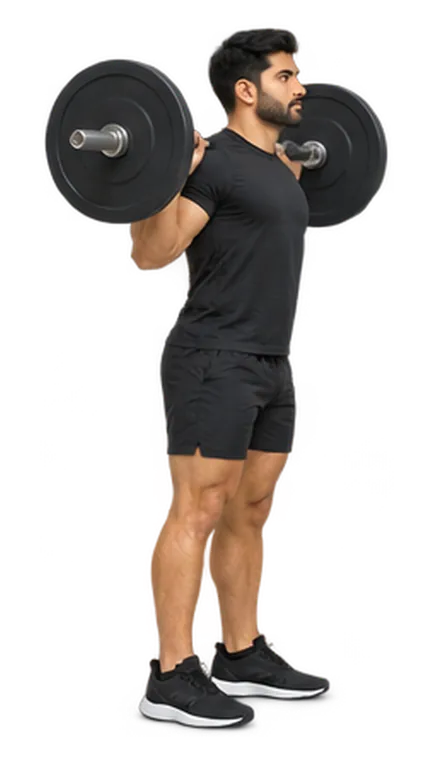
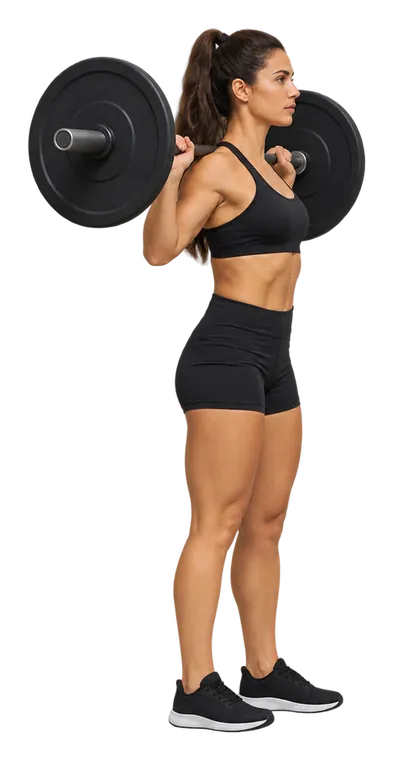
Release v0.4.2: consistent athlete for 5 more moves
New photos for back-squat, bench-press, ohp, calf-raise and superman.
Checked: 1200x1200 transparent, no logos, start/end aligned.

Claude-Session: https://claude.ai/code/session_01SgaN6zveFZcVCrrE6Hbc5f

Changed region(s): [[0.0611, 0.0303, 0.9466, 0.9684]]

diff --git a/index.html b/index.html
@@ -9,13 +9,13 @@
 <meta name="apple-mobile-web-app-title" content="LIME">
 <meta name="description" content="LIME — a minimalist workout tracker. Your data stays on your phone.">
 <title>LIME Workout</title>
-<link rel="manifest" href="manifest.webmanifest?v=0.4.1">
+<link rel="manifest" href="manifest.webmanifest?v=0.4.2">
 <link rel="icon" href="favicon.ico" sizes="any">
-<link rel="icon" href="icons/icon.svg?v=0.4.1" type="image/svg+xml">
-<link rel="apple-touch-icon" href="icons/apple-touch-icon.png?v=0.4.1">
+<link rel="icon" href="icons/icon.svg?v=0.4.2" type="image/svg+xml">
+<link rel="apple-touch-icon" href="icons/apple-touch-icon.png?v=0.4.2">
 <link rel="preload" href="fonts/oswald-var.woff2" as="font" type="font/woff2" crossorigin>
 <link rel="preload" href="fonts/inter-var.woff2" as="font" type="font/woff2" crossorigin>
-<link rel="stylesheet" href="css/app.css?v=0.4.1">
+<link rel="stylesheet" href="css/app.css?v=0.4.2">
 </head>
 <body>
   <!-- Splash: removed by app.js; a CSS fallback hides it after 4 s so it can never get stuck -->
@@ -36,27 +36,27 @@
   <div id="toast-root"></div>
 
   <!-- Load order matters: core → data → ui → features → app. Tested in tests/structure.test.mjs -->
-  <script src="js/core/version.js?v=0.4.1"></script>
-  <script src="js/core/util.js?v=0.4.1"></script>
-  <script src="js/core/store.js?v=0.4.1"></script>
-  <script src="js/core/timer.js?v=0.4.1"></script>
-  <script src="js/core/audio.js?v=0.4.1"></script>
-  <script src="js/data/exercises.js?v=0.4.1"></script>
-  <script src="js/data/art.js?v=0.4.1"></script>
-  <script src="js/data/figures.js?v=0.4.1"></script>
-  <script src="js/data/planner.js?v=0.4.1"></script>
-  <script src="js/ui/icons.js?v=0.4.1"></script>
-  <script src="js/ui/toast.js?v=0.4.1"></script>
-  <script src="js/ui/sheet.js?v=0.4.1"></script>
-  <script src="js/ui/charts.js?v=0.4.1"></script>
-  <script src="js/ui/body3d.js?v=0.4.1"></script>
-  <script src="js/features/stats.js?v=0.4.1"></script>
-  <script src="js/features/onboarding.js?v=0.4.1"></script>
-  <script src="js/features/home.js?v=0.4.1"></script>
-  <script src="js/features/library.js?v=0.4.1"></script>
-  <script src="js/features/player.js?v=0.4.1"></script>
-  <script src="js/features/progress.js?v=0.4.1"></script>
-  <script src="js/features/settings.js?v=0.4.1"></script>
-  <script src="js/app.js?v=0.4.1"></script>
+  <script src="js/core/version.js?v=0.4.2"></script>
+  <script src="js/core/util.js?v=0.4.2"></script>
+  <script src="js/core/store.js?v=0.4.2"></script>
+  <script src="js/core/timer.js?v=0.4.2"></script>
+  <script src="js/core/audio.js?v=0.4.2"></script>
+  <script src="js/data/exercises.js?v=0.4.2"></script>
+  <script src="js/data/art.js?v=0.4.2"></script>
+  <script src="js/data/figures.js?v=0.4.2"></script>
+  <script src="js/data/planner.js?v=0.4.2"></script>
+  <script src="js/ui/icons.js?v=0.4.2"></script>
+  <script src="js/ui/toast.js?v=0.4.2"></script>
+  <script src="js/ui/sheet.js?v=0.4.2"></script>
+  <script src="js/ui/charts.js?v=0.4.2"></script>
+  <script src="js/ui/body3d.js?v=0.4.2"></script>
+  <script src="js/features/stats.js?v=0.4.2"></script>
+  <script src="js/features/onboarding.js?v=0.4.2"></script>
+  <script src="js/features/home.js?v=0.4.2"></script>
+  <script src="js/features/library.js?v=0.4.2"></script>
+  <script src="js/features/player.js?v=0.4.2"></script>
+  <script src="js/features/progress.js?v=0.4.2"></script>
+  <script src="js/features/settings.js?v=0.4.2"></script>
+  <script src="js/app.js?v=0.4.2"></script>
 </body>
 </html>

diff --git a/js/data/art.js b/js/data/art.js
@@ -5,13 +5,13 @@
 (function () {
   'use strict';
   LIME.ART = {
-    'back-squat': [432, 760],
+    'back-squat': [393, 760],
     'band-press': [388, 760],
     'band-row': [760, 558],
     'bb-row': [501, 760],
-    'bench-press': [760, 661],
+    'bench-press': [760, 630],
     'box-squat': [540, 760],
-    'calf-raise': [186, 760],
+    'calf-raise': [202, 760],
     'climber': [760, 437],
     'crunch': [760, 308],
     'db-bench': [760, 592],
@@ -31,7 +31,7 @@
     'knee-pushup': [760, 437],
     'lunge': [625, 760],
     'neg-pullup': [502, 760],
-    'ohp': [256, 760],
+    'ohp': [369, 760],
     'pike-pushup': [760, 629],
     'plank': [760, 359],
     'pullup': [502, 760],
@@ -39,6 +39,6 @@
     'rdl': [452, 760],
     'russian-twist': [760, 563],
     'squat': [482, 760],
-    'superman': [760, 235]
+    'superman': [760, 181]
   };
 })();

diff --git a/js/core/version.js b/js/core/version.js
@@ -2,8 +2,15 @@
    VERSION must match ?v= on every asset link in index.html, sw.js VERSION
    and the newest CHANGELOG.md entry (checked by tests/structure.test.mjs). */
 var LIME = {
-  VERSION: '0.4.1',
+  VERSION: '0.4.2',
   RELEASES: [
+    {
+      version: '0.4.2',
+      date: '2026-11-08',
+      notes: [
+        'New photos for back squat, bench press, overhead press, calf raise and superman, with the same athlete as the other moves.'
+      ]
+    },
     {
       version: '0.4.1',
       date: '2026-11-08',

diff --git a/sw.js b/sw.js
@@ -1,6 +1,6 @@
 /* Service worker: page network-first, versioned assets cache-first.
    VERSION must equal LIME.VERSION (checked by tests). */
-const VERSION = '0.4.1';
+const VERSION = '0.4.2';
 const CACHE = 'lime-' + VERSION;
 const V = '?v=' + VERSION;
 

diff --git a/AGENTS.md b/AGENTS.md
@@ -113,7 +113,9 @@ be set to **GitHub Actions**. The deploy job only runs after tests pass.
   `load()` takes whichever copy has the newer `savedAt`.
 - **Demo order:** video → photos (`LIME.ART`, if Settings → Exercise demos is
   Photos) → 3D body (if 3D) → SVG drawing. `LIME.media(ex, opts)` decides.
-- Exercise photos are AI-generated prototypes supplied by the owner; three had a
+- Exercise photos are AI-generated prototypes supplied by the owner; four had a
   sportswear logo retouched out. Re-check new batches for logos before adding.
+  Goal: one athlete (the woman) in every photo — 5 moves still show a man:
+  russian-twist, climber, high-knees, ham-stretch, hip-flexor.
 - SMIL animations in figures: fine in Safari/Chrome; turned off for
   `prefers-reduced-motion`.

diff --git a/CHANGELOG.md b/CHANGELOG.md
@@ -4,6 +4,11 @@ Newest first. Every release also updates `LIME.RELEASES` in `js/core/version.js`
 the `?v=` on every asset link in `index.html`, `VERSION` in `sw.js`, and
 `version` in `package.json`. `tests/structure.test.mjs` fails if they differ.
 
+## 0.4.2 — 2026-11-08
+
+- New photos for back squat, bench press, overhead press, calf raise and
+  superman, with the same athlete as the other moves.
+
 ## 0.4.1 — 2026-11-08
 
 - Five exercises renamed and rewritten to match their photos: Tempo Squat
